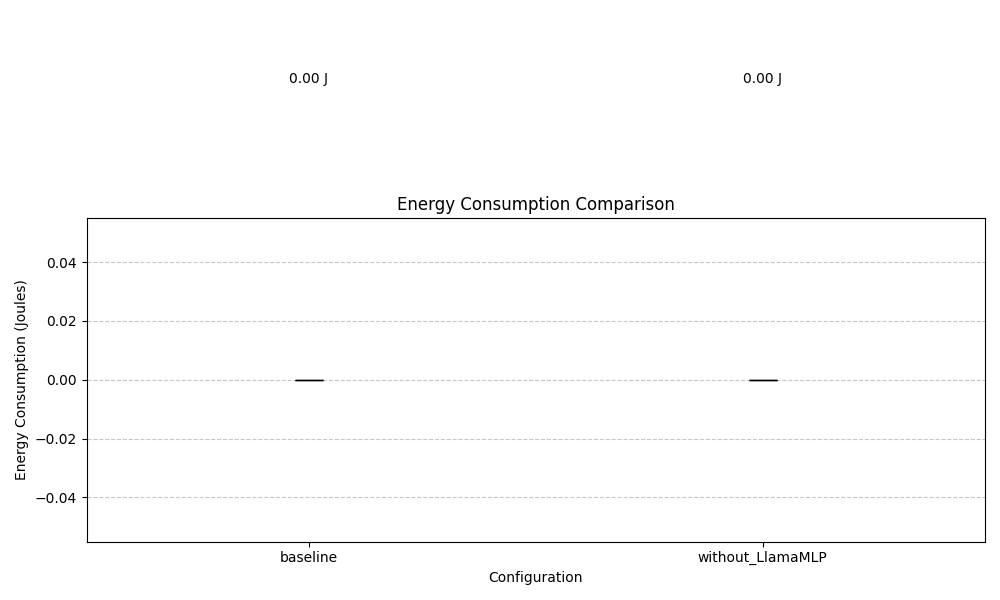
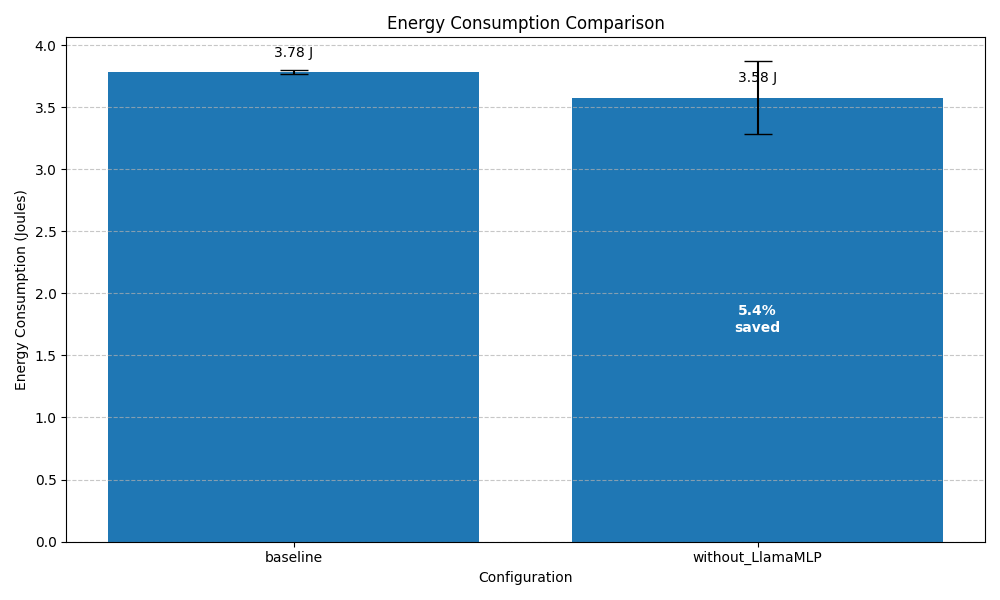
working for most layers

diff --git a/energy_profiler/layer_profiler.py b/energy_profiler/layer_profiler.py
@@ -290,3 +290,199 @@ class LayerEnergyProfiler(LlamaEnergyProfiler):
             plt.show()
             
         return fig
+    
+    def visualize_all_layer_types(self, output_path=None):
+        """Generate a summary visualization of energy consumption across all layer types.
+        
+        Args:
+            output_path: Path to save the visualization
+        """
+        if not self.layer_measurements:
+            raise ValueError("No measurements available. Run profile_all_layers first.")
+        
+        # Create a new figure for the summary
+        fig, (ax1, ax2) = plt.subplots(1, 2, figsize=(15, 7))
+        
+        # Data to collect
+        layer_types = []
+        total_energy_contributions = []
+        total_model_energy = 0
+        
+        # Process each layer type
+        for layer_type, results in self.layer_measurements.items():
+            # Get baseline energy for this layer type
+            baseline_energy = results["baseline"]["avg_energy"]
+            if total_model_energy == 0:  # Only set this once
+                total_model_energy = baseline_energy
+            
+            # Calculate total energy contribution for this layer type
+            layer_energy = 0
+            for key, data in results.items():
+                if key != "baseline" and "layer_energy_contribution" in data:
+                    layer_energy += data["layer_energy_contribution"]
+            
+            layer_types.append(layer_type)
+            total_energy_contributions.append(layer_energy)
+        
+        # Sort by energy contribution (descending)
+        sorted_data = sorted(zip(layer_types, total_energy_contributions), 
+                             key=lambda x: x[1], reverse=True)
+        layer_types = [x[0] for x in sorted_data]
+        total_energy_contributions = [x[1] for x in sorted_data]
+        
+        # Calculate percentages
+        energy_percentages = [100 * e / total_model_energy for e in total_energy_contributions]
+        
+        # Bar chart with absolute energy contributions
+        bars = ax1.bar(layer_types, total_energy_contributions)
+        
+        # Add values on top of each bar
+        for i, bar in enumerate(bars):
+            height = bar.get_height()
+            ax1.text(bar.get_x() + bar.get_width()/2., height + 0.02,
+                    f'{total_energy_contributions[i]:.2f} J',
+                    ha='center', va='bottom', rotation=0)
+        
+        # Add labels and title
+        ax1.set_xlabel('Layer Type')
+        ax1.set_ylabel('Energy Contribution (Joules)')
+        ax1.set_title('Energy Contribution by Layer Type')
+        
+        # Add grid
+        ax1.grid(axis='y', linestyle='--', alpha=0.7)
+        
+        # Stacked bar showing percentage breakdown of model energy
+        bottom = 0
+        for i, (layer_type, percentage) in enumerate(zip(layer_types, energy_percentages)):
+            ax2.bar([0], [percentage], bottom=[bottom], label=f'{layer_type} ({percentage:.1f}%)')
+            if percentage > 3:  # Only add text if segment is large enough
+                ax2.text(0, bottom + percentage/2, f'{percentage:.1f}%', 
+                        ha='center', va='center', color='white', fontweight='bold')
+            bottom += percentage
+        
+        # Calculate other energy if total < 100%
+        remaining = 100 - sum(energy_percentages)
+        if remaining > 0.1:  # Only show if significant
+            ax2.bar([0], [remaining], bottom=[bottom], label=f'Other ({remaining:.1f}%)')
+            if remaining > 3:
+                ax2.text(0, bottom + remaining/2, f'{remaining:.1f}%', 
+                        ha='center', va='center', color='white', fontweight='bold')
+        
+        # Set labels and title
+        ax2.set_title('Energy Distribution by Layer Type')
+        ax2.set_ylabel('Percentage of Total Energy')
+        ax2.set_xticks([0])
+        ax2.set_xticklabels(['Model Components'])
+        ax2.legend(loc='center left', bbox_to_anchor=(1, 0.5))
+        
+        # Set the y-axis limit to 100%
+        ax2.set_ylim(0, 100)
+        
+        # Add summary text
+        profiled_energy = sum(total_energy_contributions)
+        profiled_pct = 100 * profiled_energy / total_model_energy
+        plt.figtext(0.5, 0.01, 
+                   f"Total Profiled Energy: {profiled_energy:.2f}J ({profiled_pct:.1f}% of model energy)",
+                   ha="center", fontsize=12, bbox={"facecolor":"orange", "alpha":0.2, "pad":5})
+        
+        # Save the plot
+        plt.tight_layout(rect=[0, 0.03, 1, 0.97])
+        if output_path:
+            plt.savefig(output_path)
+            print(f"Saved layer type energy visualization to {output_path}")
+        else:
+            plt.show()
+            
+        return fig
+
+    def visualize_all_layers(self, output_path=None):
+        """Generate visualization showing energy contribution of each individual layer.
+        
+        Args:
+            output_path: Path to save the visualization
+        """
+        if not self.layer_measurements:
+            raise ValueError("No measurements available. Run profile_all_layers first.")
+        
+        # Create the figure
+        fig, ax = plt.subplots(figsize=(14, 8))
+        
+        # Data to collect
+        all_layer_names = []
+        all_energy_contributions = []
+        layer_types = []
+        
+        # Total model energy (use the first baseline found)
+        total_model_energy = next(iter(self.layer_measurements.values()))["baseline"]["avg_energy"]
+        
+        # Process each layer type
+        for layer_type, results in self.layer_measurements.items():
+            layer_types.append(layer_type)
+            
+            # Extract layer data
+            for key, data in results.items():
+                if key != "baseline" and "layer_energy_contribution" in data:
+                    # Extract position from key (e.g., LlamaMLP_5 -> 5)
+                    position = int(key.split('_')[-1])
+                    layer_name = f"{layer_type}_{position}"
+                    
+                    all_layer_names.append(layer_name)
+                    all_energy_contributions.append(data["layer_energy_contribution"])
+        
+        # Sort by energy contribution (descending)
+        sorted_data = sorted(zip(all_layer_names, all_energy_contributions), 
+                             key=lambda x: x[1], reverse=True)
+        all_layer_names = [x[0] for x in sorted_data]
+        all_energy_contributions = [x[1] for x in sorted_data]
+        
+        # Create color mapping for layer types
+        unique_types = list(set(name.split('_')[0] for name in all_layer_names))
+        colors = plt.cm.tab10(np.linspace(0, 1, len(unique_types)))
+        color_map = {layer_type: colors[i] for i, layer_type in enumerate(unique_types)}
+        
+        # Assign colors based on layer type
+        bar_colors = [color_map[name.split('_')[0]] for name in all_layer_names]
+        
+        # Bar chart with absolute energy contributions
+        bars = ax.bar(all_layer_names, all_energy_contributions, color=bar_colors)
+        
+        # Add values on top of bars (only for significant contributors)
+        for i, bar in enumerate(bars):
+            height = bar.get_height()
+            if height > max(all_energy_contributions) * 0.05:  # Only label significant bars
+                ax.text(bar.get_x() + bar.get_width()/2., height + 0.02,
+                        f'{height:.2f} J',
+                        ha='center', va='bottom', rotation=90, fontsize=8)
+        
+        # Add labels and title
+        ax.set_xlabel('Layer')
+        ax.set_ylabel('Energy Contribution (Joules)')
+        ax.set_title('Energy Contribution by Individual Layer')
+        
+        # Rotate x-axis labels for better readability
+        plt.xticks(rotation=90, fontsize=8)
+        
+        # Add grid
+        ax.grid(axis='y', linestyle='--', alpha=0.7)
+        
+        # Create legend for layer types
+        legend_elements = [plt.Rectangle((0,0), 1, 1, color=color_map[t], label=t) 
+                          for t in unique_types]
+        ax.legend(handles=legend_elements, loc='upper right')
+        
+        # Add summary text
+        total_profiled = sum(all_energy_contributions)
+        profiled_pct = 100 * total_profiled / total_model_energy
+        plt.figtext(0.5, 0.01, 
+                   f"Total Profiled Energy: {total_profiled:.2f}J ({profiled_pct:.1f}% of model energy)",
+                   ha="center", fontsize=12, bbox={"facecolor":"orange", "alpha":0.2, "pad":5})
+        
+        # Save the plot
+        plt.tight_layout(rect=[0, 0.03, 1, 0.97])
+        if output_path:
+            plt.savefig(output_path)
+            print(f"Saved individual layer energy visualization to {output_path}")
+        else:
+            plt.show()
+            
+        return fig

diff --git a/energy_profiler/run_experiment.py b/energy_profiler/run_experiment.py
@@ -125,6 +125,7 @@ def plot_power_over_time(measurements, output_path):
     plt.savefig(output_path)
     print(f"Saved power over time plot to {output_path}")
 
+
 def run_experiment():
     """Run the energy profiling experiment."""
     parser = argparse.ArgumentParser(description="Energy profiling experiment for Llama 3.2")
@@ -309,26 +310,87 @@ def run_layer_experiment():
         print("Performing warm-up run...")
         profiler.profile_inference(args.prompt, tokenizer, max_tokens=10)
         
-        # Identify component types to profile
+        # # Identify component types to profile
+        # component_types = []
+        
+        # # First, try to find MLP/Feed-Forward components
+        # try:
+        #     from transformers.models.llama.modeling_llama import LlamaMLP
+        #     component_types.append('LlamaMLP')
+        # except ImportError:
+        #     # Look through model for MLP components
+        #     for layer_type in profiler.layer_map.keys():
+        #         if 'mlp' in layer_type.lower() or 'feed' in layer_type.lower():
+        #             component_types.append(layer_type)
+        #             break
+        
+        # # Then look for attention components
+        # for layer_type in profiler.layer_map.keys():
+        #     if 'atten' in layer_type.lower():
+        #         component_types.append(layer_type)
+        #         break
+
+        # Replace the component type detection section (around line 312)
+        # Identify component types to profile - more comprehensive approach
         component_types = []
         
-        # First, try to find MLP/Feed-Forward components
-        try:
-            from transformers.models.llama.modeling_llama import LlamaMLP
-            component_types.append('LlamaMLP')
-        except ImportError:
-            # Look through model for MLP components
-            for layer_type in profiler.layer_map.keys():
-                if 'mlp' in layer_type.lower() or 'feed' in layer_type.lower():
-                    component_types.append(layer_type)
-                    break
+        # Common layer type patterns to look for
+        layer_patterns = {
+            'attention': ['atten', 'self_attn', 'kv_head'],
+            'mlp': ['mlp', 'feedforward', 'feed_forward', 'ffn'],
+            'normalization': ['norm', 'layernorm', 'rmsnorm'],
+            'embedding': ['embed', 'wte'],
+            'head': ['head', 'lm_head', 'causal_lm'],
+            'rotary': ['rotary', 'rope', 'position'],
+        }
         
-        # Then look for attention components
+        # Print all available layer types for debugging
+        print("\nAvailable layer types in model:")
         for layer_type in profiler.layer_map.keys():
-            if 'atten' in layer_type.lower():
-                component_types.append(layer_type)
-                break
+            count = len(profiler.layer_map[layer_type])
+            print(f"  {layer_type}: {count} instances")
         
+        # First try specific Llama components if available
+        try:
+            # Import specific Llama components
+            from transformers.models.llama.modeling_llama import LlamaMLP, LlamaAttention, LlamaRMSNorm
+            component_types.extend(['LlamaMLP', 'LlamaAttention', 'LlamaRMSNorm'])
+            print("Using specific Llama component types")
+        except ImportError:
+            print("Llama-specific components not found, using pattern matching")
+            
+            # If specific imports fail, use pattern matching to find all relevant layers
+            for layer_type in profiler.layer_map.keys():
+                # Skip if no instances found
+                if not profiler.layer_map[layer_type]:
+                    continue
+                    
+                # Try to categorize the layer type
+                layer_lower = layer_type.lower()
+                matched = False
+                
+                # Check against patterns
+                for category, patterns in layer_patterns.items():
+                    if any(pattern in layer_lower for pattern in patterns):
+                        component_types.append(layer_type)
+                        print(f"Found {category} component: {layer_type}")
+                        matched = True
+                        break
+                
+                # If it's a substantial component (has many instances) but didn't match patterns, include it
+                if not matched and len(profiler.layer_map[layer_type]) > 3:
+                    component_types.append(layer_type)
+                    print(f"Including uncategorized component type: {layer_type}")
+        
+        # Ensure we have at least some components to profile
+        if not component_types:
+            # Fallback: include any layer type with multiple instances
+            for layer_type, instances in profiler.layer_map.items():
+                if len(instances) > 1:
+                    component_types.append(layer_type)
+                    
+        print(f"\nWill profile these component types: {component_types}")
+
         # Profile each component type
         all_layer_results = {}
         for component_type in component_types:
@@ -391,7 +453,18 @@ def run_layer_experiment():
             # Create pie chart
             labels = list(components_energy.keys()) + ['Other Components']
             sizes = [components_pct[c] for c in components_energy.keys()] + [remaining_pct]
+               # Handle negative values - set to small positive value for visualization
+            # and warn the user
+            if any(size < 0 for size in sizes):
+                print("WARNING: Negative energy percentages detected - likely due to measurement variance")
+                print("Setting negative values to 0 for visualization purposes")
+                # Convert negatives to zeros for pie chart
+                sizes = [max(0, size) for size in sizes]
+                # Normalize to ensure percentages still sum to 100%
+                if sum(sizes) > 0:  # Avoid division by zero
+                    sizes = [size / sum(sizes) * 100 for size in sizes]
             
+       
             fig, ax = plt.subplots(figsize=(10, 8))
             wedges, texts, autotexts = ax.pie(sizes, labels=labels, autopct='%1.1f%%',
                                              shadow=False, startangle=90)
@@ -404,7 +477,20 @@ def run_layer_experiment():
             print(f"Saved model energy distribution chart to {pie_chart_path}")
         
         print("\nLayer-wise profiling experiment completed successfully!")
-        
+        try:
+            # Visualize all layer types together
+            all_types_path = results_dir / "all_layer_types_summary.png"
+            profiler.visualize_all_layer_types(all_types_path)
+            print(f"Saved summary of all layer types to {all_types_path}")
+            
+            # Visualize all individual layers across types
+            all_layers_path = results_dir / "all_individual_layers.png"
+            profiler.visualize_all_layers(all_layers_path)
+            print(f"Saved visualization of all individual layers to {all_layers_path}")
+        except Exception as e:
+            print(f"Error generating comprehensive visualizations: {e}")
+            import traceback
+            traceback.print_exc() 
     except Exception as e:
         print(f"Error during layer experiment: {e}")
         import traceback
